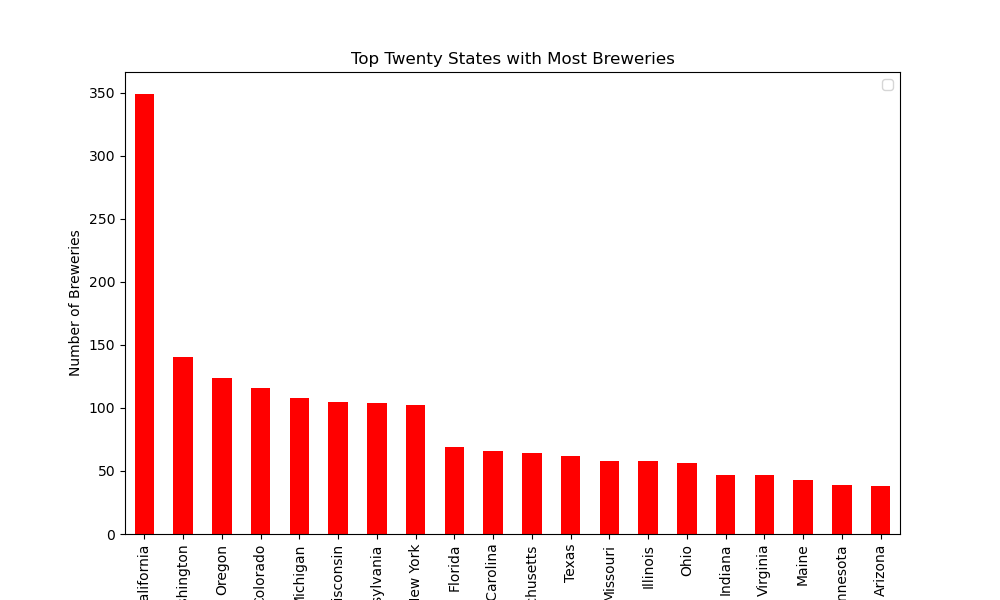
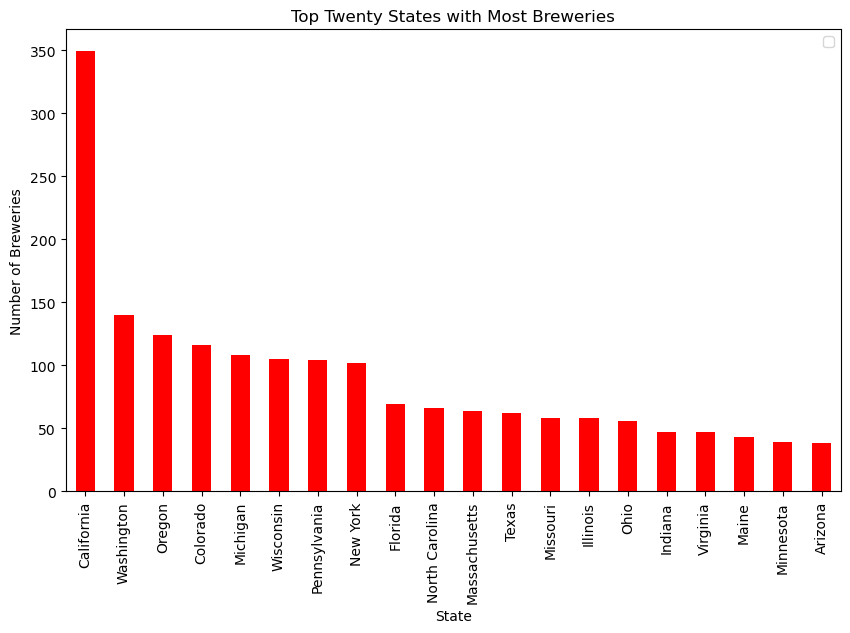
corrected image

Changed region(s): [[0.0, 0.0, 1.0, 1.0], [0.3365, 0.09, 0.6729, 0.12], [0.8871, 0.12, 0.9176, 0.15]]

diff --git a/web_scrape.py b/web_scrape.py
@@ -143,7 +143,8 @@ def barchart():
     updated_df = pd.DataFrame(updated)
     new_df = updated_df.sort_values('brewery_id', ascending=False)[0:20]
 
-    chart = new_df.plot(kind="bar", title="Top Twenty States with Most Breweries", color="red", figsize=(10,10))
+    chart = new_df.plot(kind="bar", title="Top Twenty States with Most Breweries", color="red", figsize=(10,6))
     chart.set_ylabel('Number of Breweries')
+    chart.set_xlabel('State')
     plt.legend('')
-    plt.savefig("Resources/barchart.png")
+    plt.savefig("Resources/barchart.png", format='png', bbox_inches = "tight")
